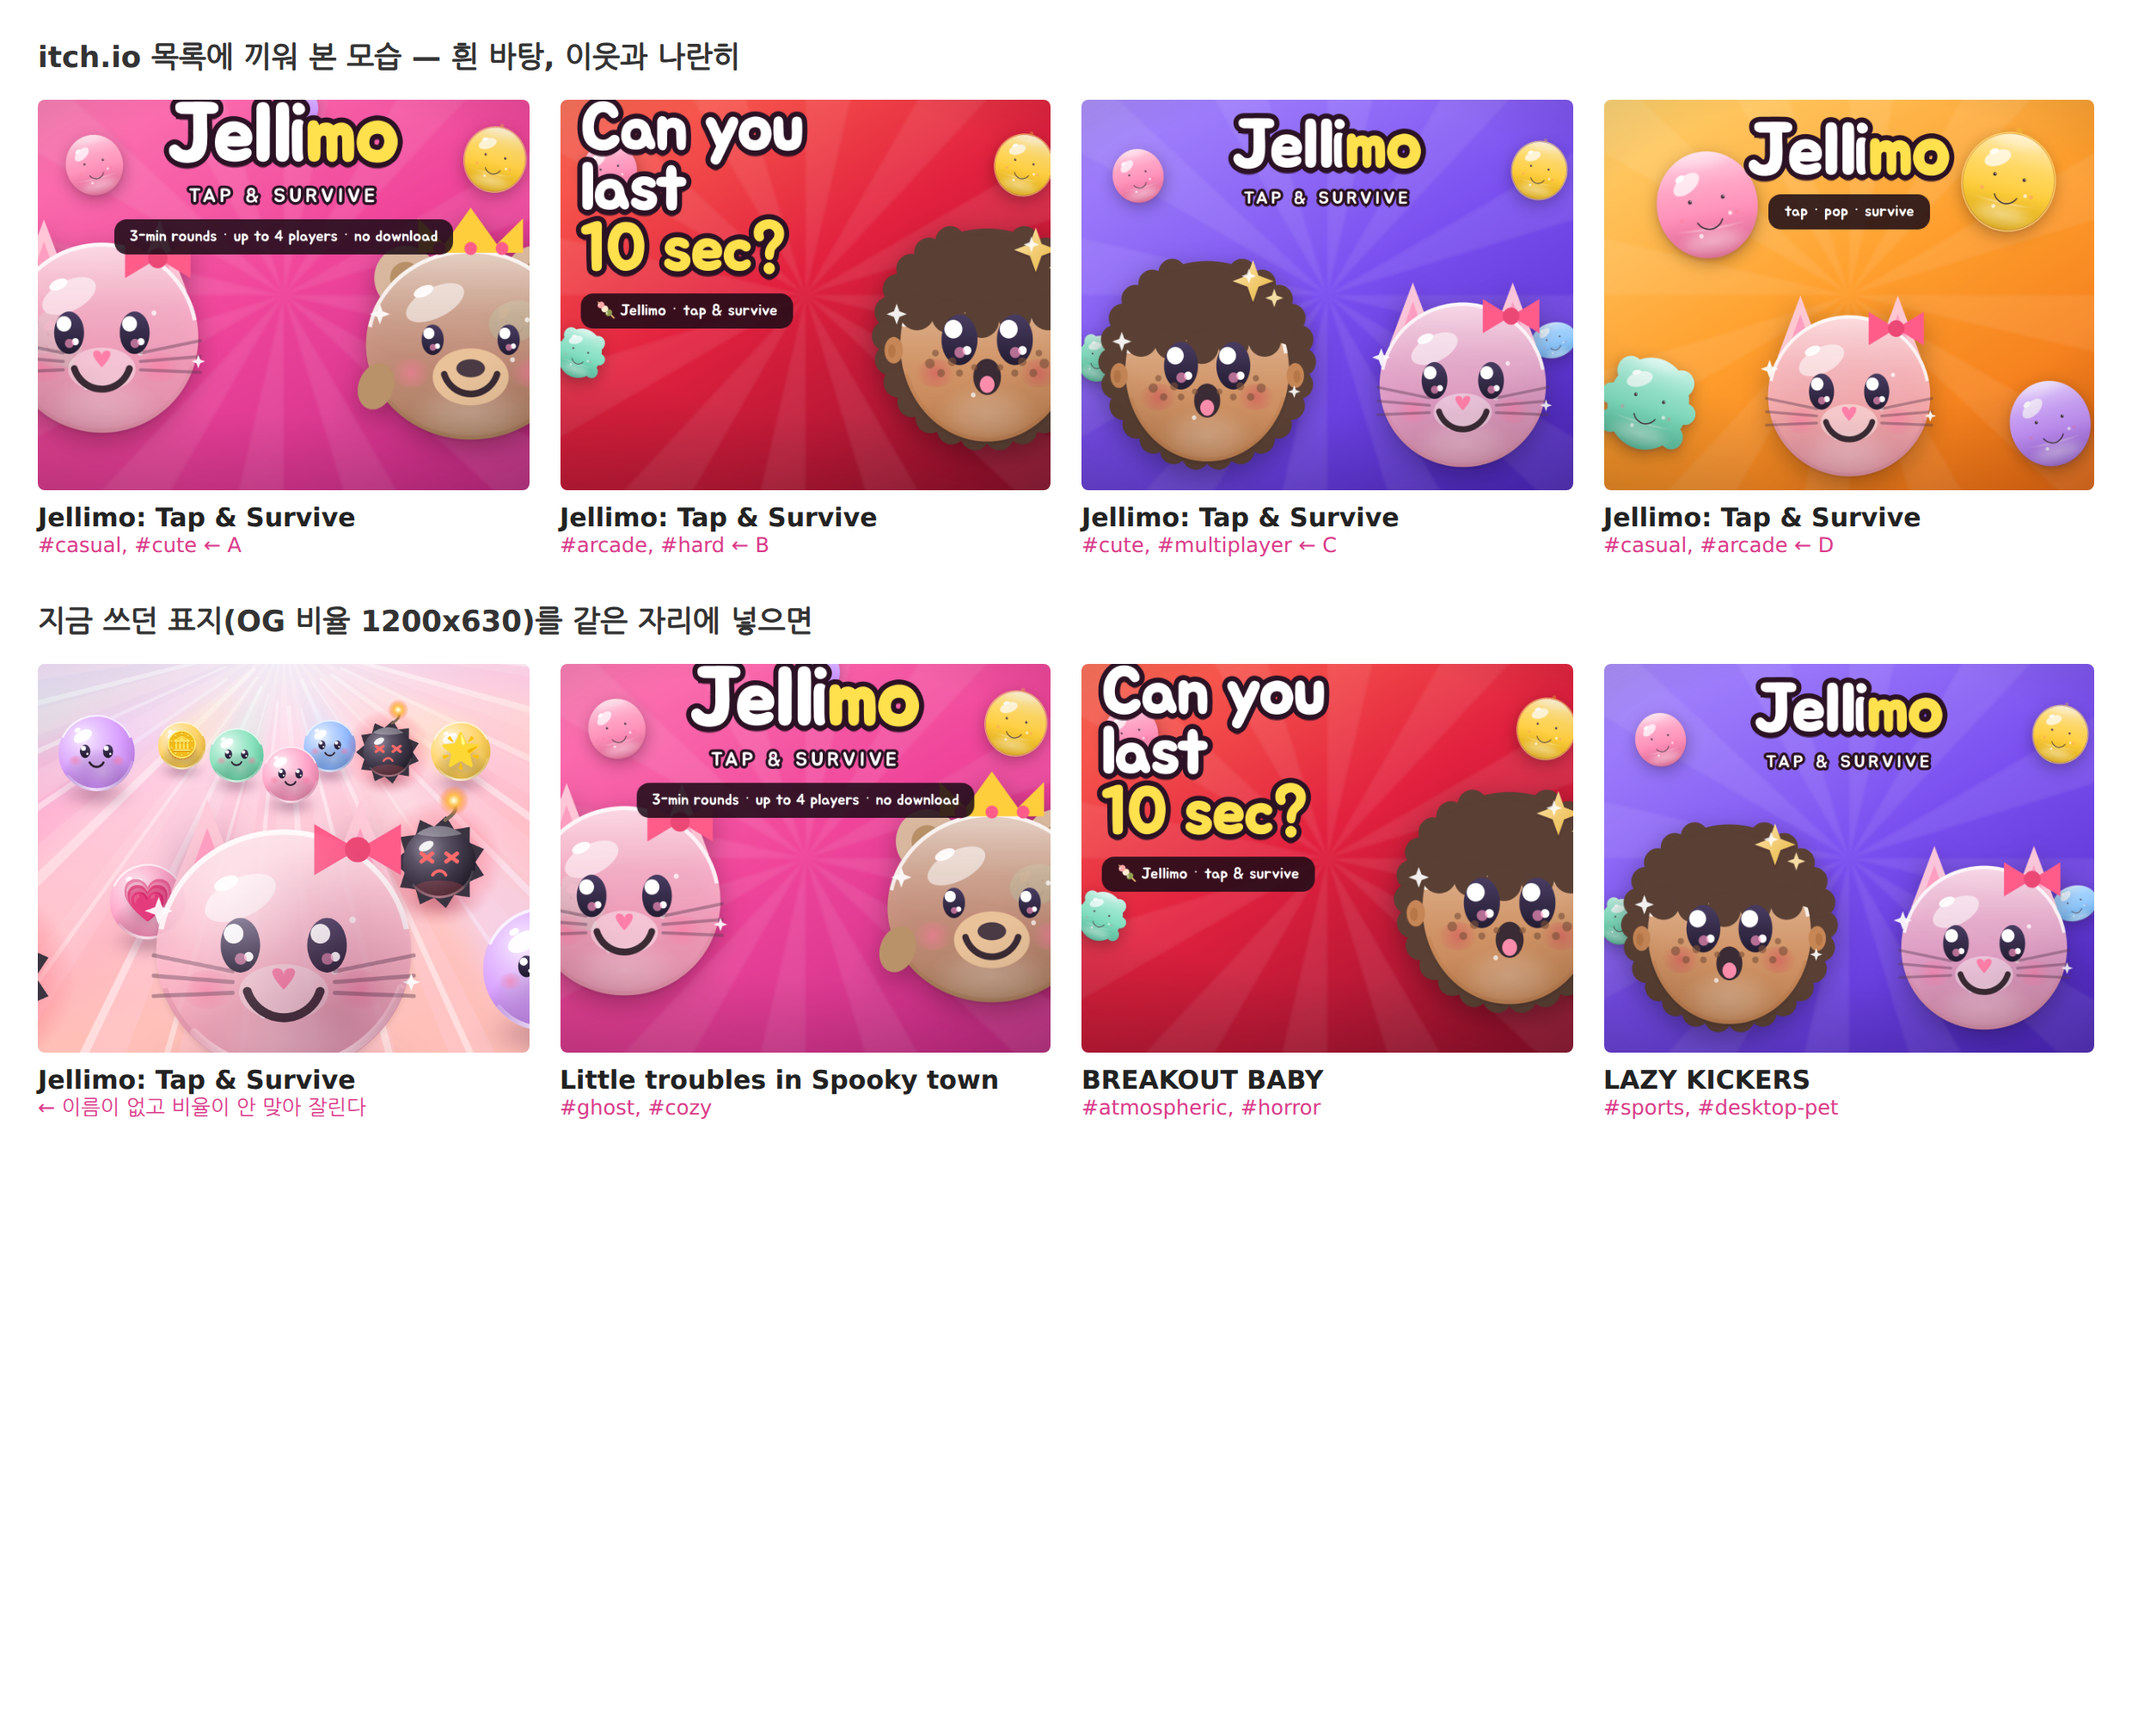
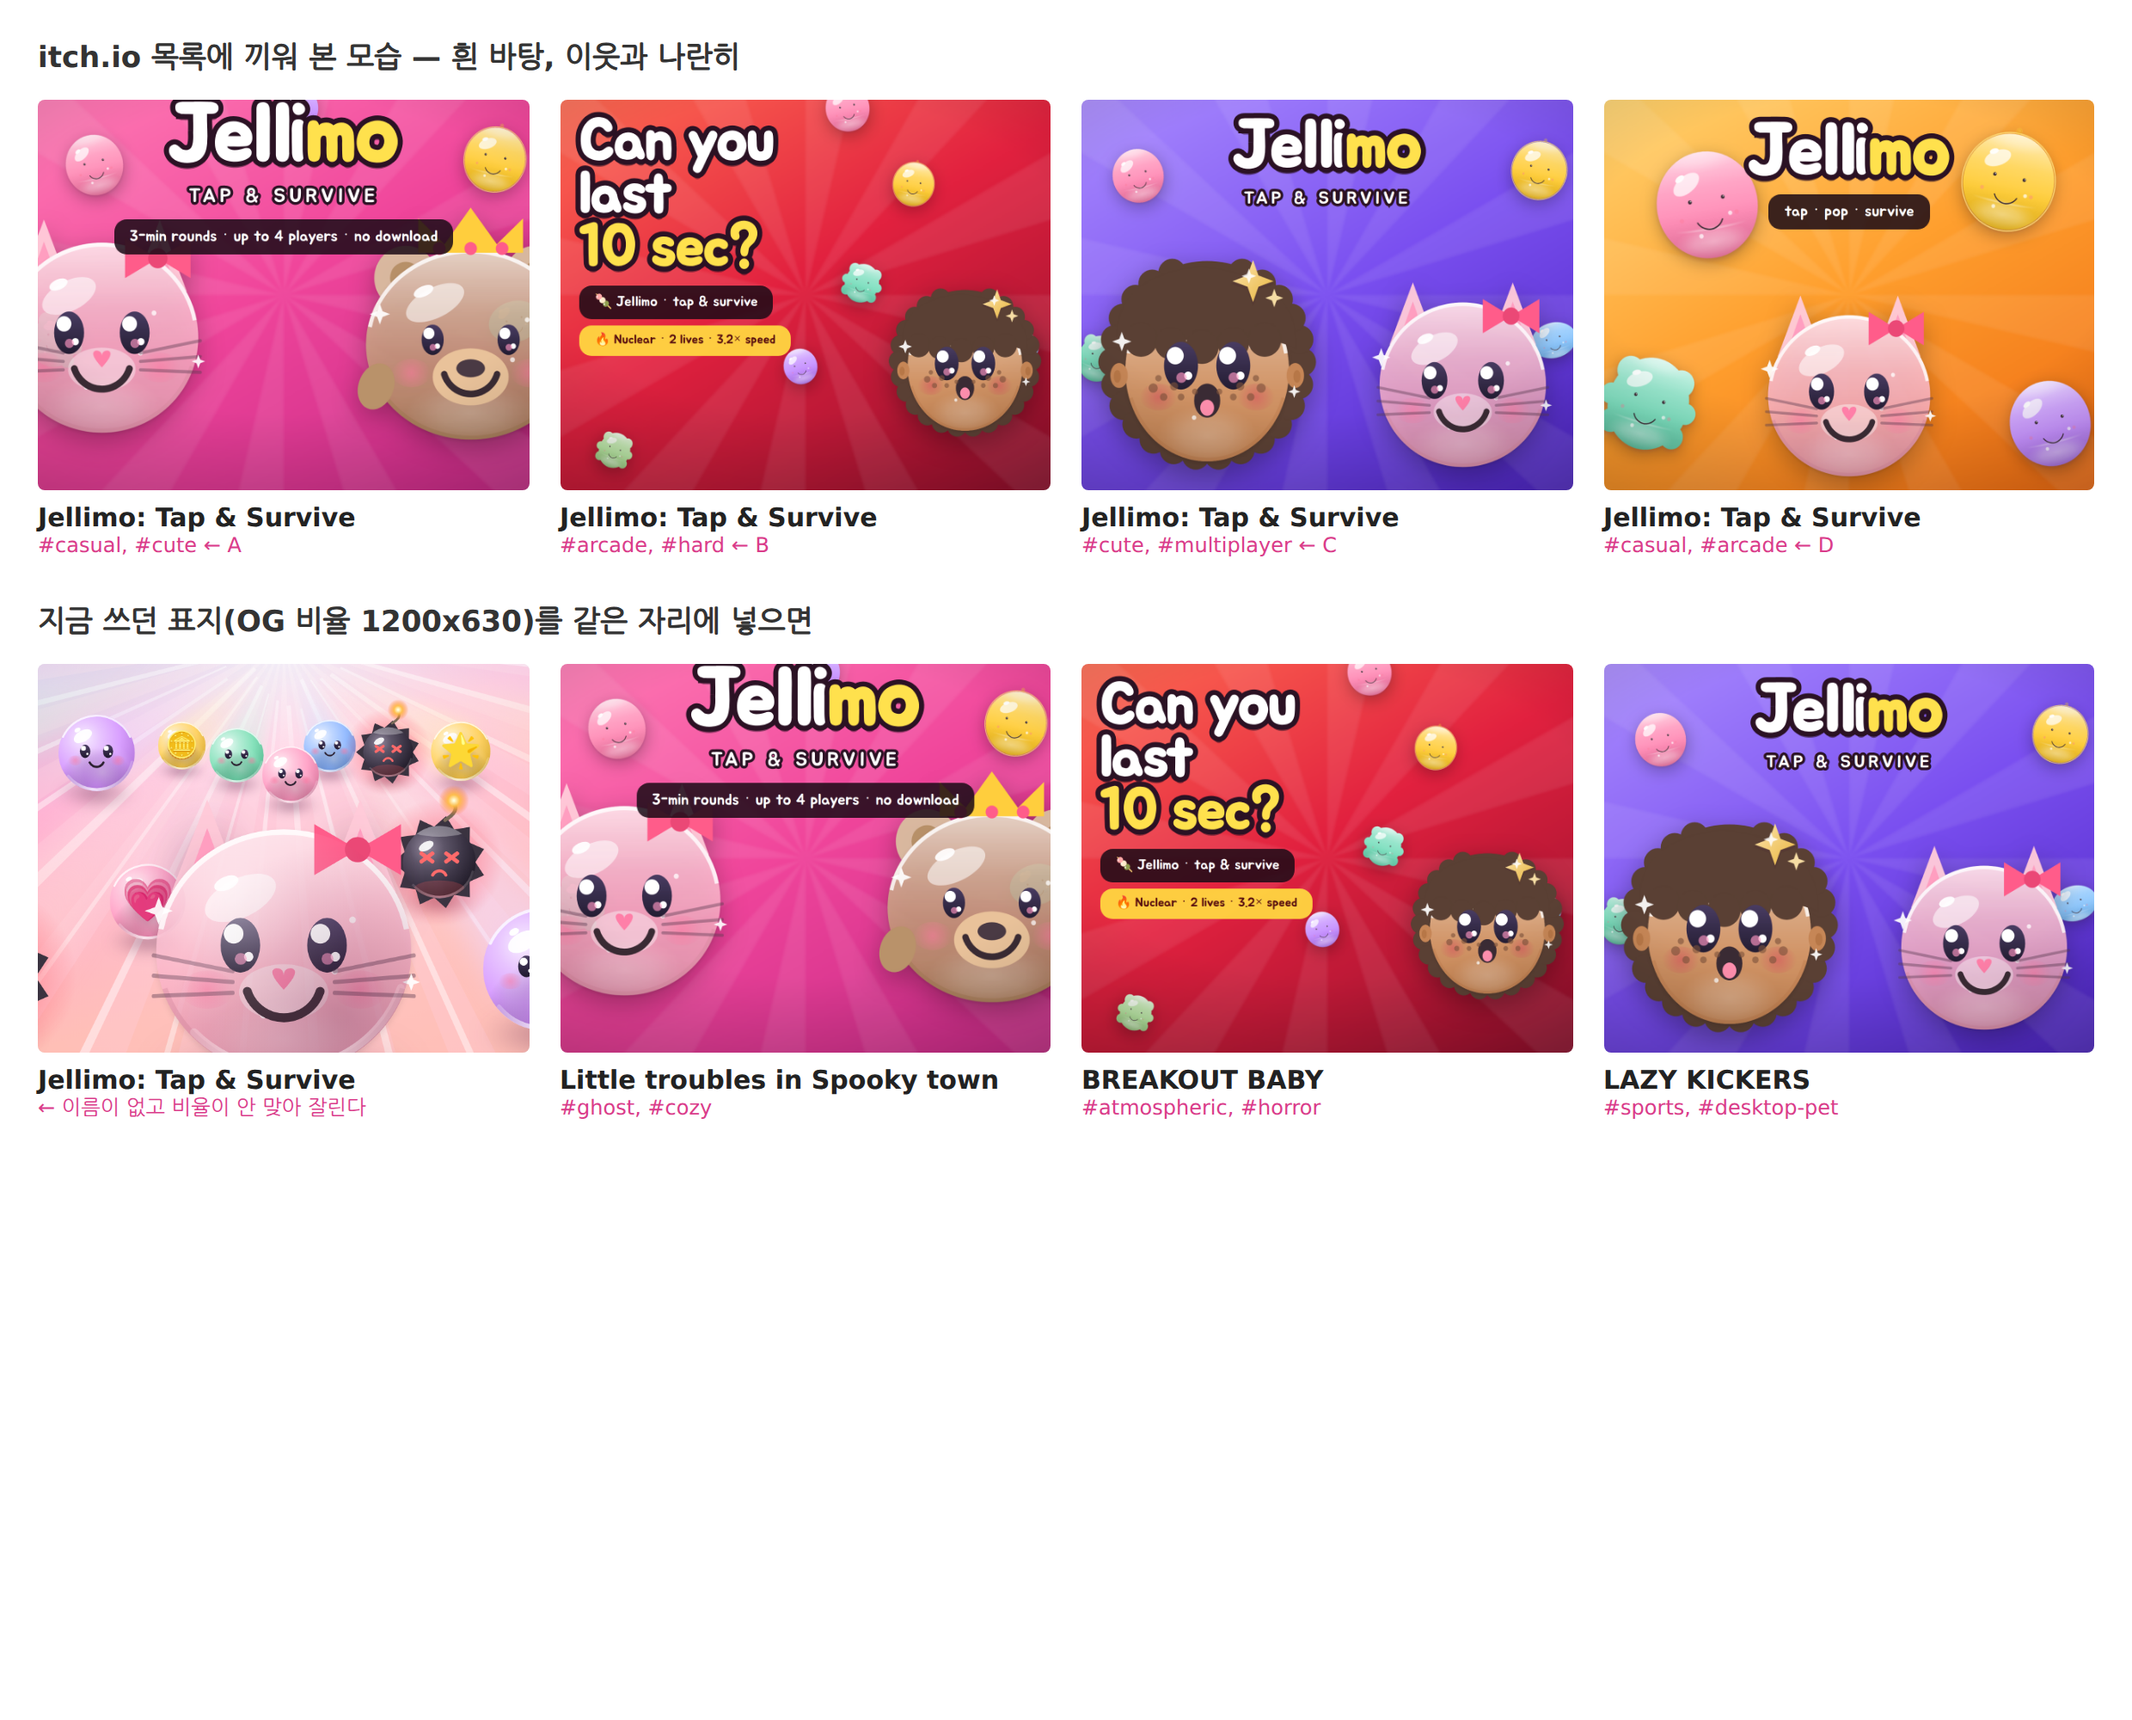
젤리모: itch 표지를 B안으로 확정 (cover-itch.png)
크게 보니 B 는 손볼 데가 있었다 — 얼굴 턱이 프레임에 잘리고 아래 3분의 1이 비었다.
목록(작게)에서는 안 보이지만 게임 페이지에서는 그 크기로 보인다.

고친 것
- 얼굴을 38%→33% 로 줄이고 위로 올려 아프로까지 다 보이게 했다
- 빈 자리에 '떨어지는 젤리' 다섯 개를 세로로 세웠다 — 글을 안 읽어도 무슨 게임인지 보인다
- 노란 띠 추가: 🔥 Nuclear · 2 lives · 3.2x speed
  '10초 버틸 수 있냐'는 도발을 숫자가 뒷받침한다

cover-itch.png 라는 안 바뀌는 이름으로 한 벌 더 둔다 — 문서가 이 이름을 가리킨다.
다른 안으로 바꾸려면 생성기의 PICK 한 줄만 고치면 된다.

Changed region(s): [[0.4968, 0.372, 0.7452, 0.62], [0.2484, 0.062, 0.4968, 0.279], [0.2794, 0.248, 0.3105, 0.279]]

diff --git a/jelly-shooting/press/store-english.md b/jelly-shooting/press/store-english.md
@@ -76,7 +76,7 @@ Korean, English and Japanese.
 | **Pricing** | **No payments** (or *Name your own price* if you want a donation button — see `press/수익화-알아보기.md`) |
 | **Uploads** | `jellimo-itch.zip` → tick **"This file will be played in the browser"** |
 | **Embed** | Manually set size, **width 430 · height 932**, tick **Mobile friendly** and **Fullscreen button** |
-| **Cover image** | `press/upload/cover-A.png` (630×500 @2x). ⚠ Do **not** use `cover-1200x630.png` — that's the OG ratio (1.90:1) and itch crops it |
+| **Cover image** | `press/upload/cover-itch.png` (630×500 @2x). ⚠ Do **not** use `cover-1200x630.png` — that's the OG ratio (1.90:1) and itch crops it |
 | **Screenshots** | `press/shots/appstore-1-play.png` … `appstore-6-home.png` |
 | **Genre** | Action |
 | **Tags (max 10 — use all 10)** | `casual` `cute` `multiplayer` `arcade` `html5` `mobile` `2d` `singleplayer` `local-multiplayer` `no-ads` |
@@ -130,7 +130,7 @@ Words people actually type. Genre-only words ("puzzle", "arcade") bury you under
 | Needed | File |
 |---|---|
 | Playable zip | `press/upload/jellimo-itch.zip` |
-| itch cover 630×500 | `press/upload/cover-A.png` (변형 B·C·D 도 같은 폴더) |
+| itch cover 630×500 | `press/upload/cover-itch.png` (변형 A·B·C·D 도 같은 폴더) |
 | Link preview (OG) 1200×630 | `press/shots/cover-1200x630.png` — 카톡·트위터 미리보기 전용 |
 | Screenshots ×6 | `press/shots/appstore-1-play.png` … `-6-home.png` |
 | Play feature graphic 1024×500 | `press/shots/play-feature-1024x500.png` |
